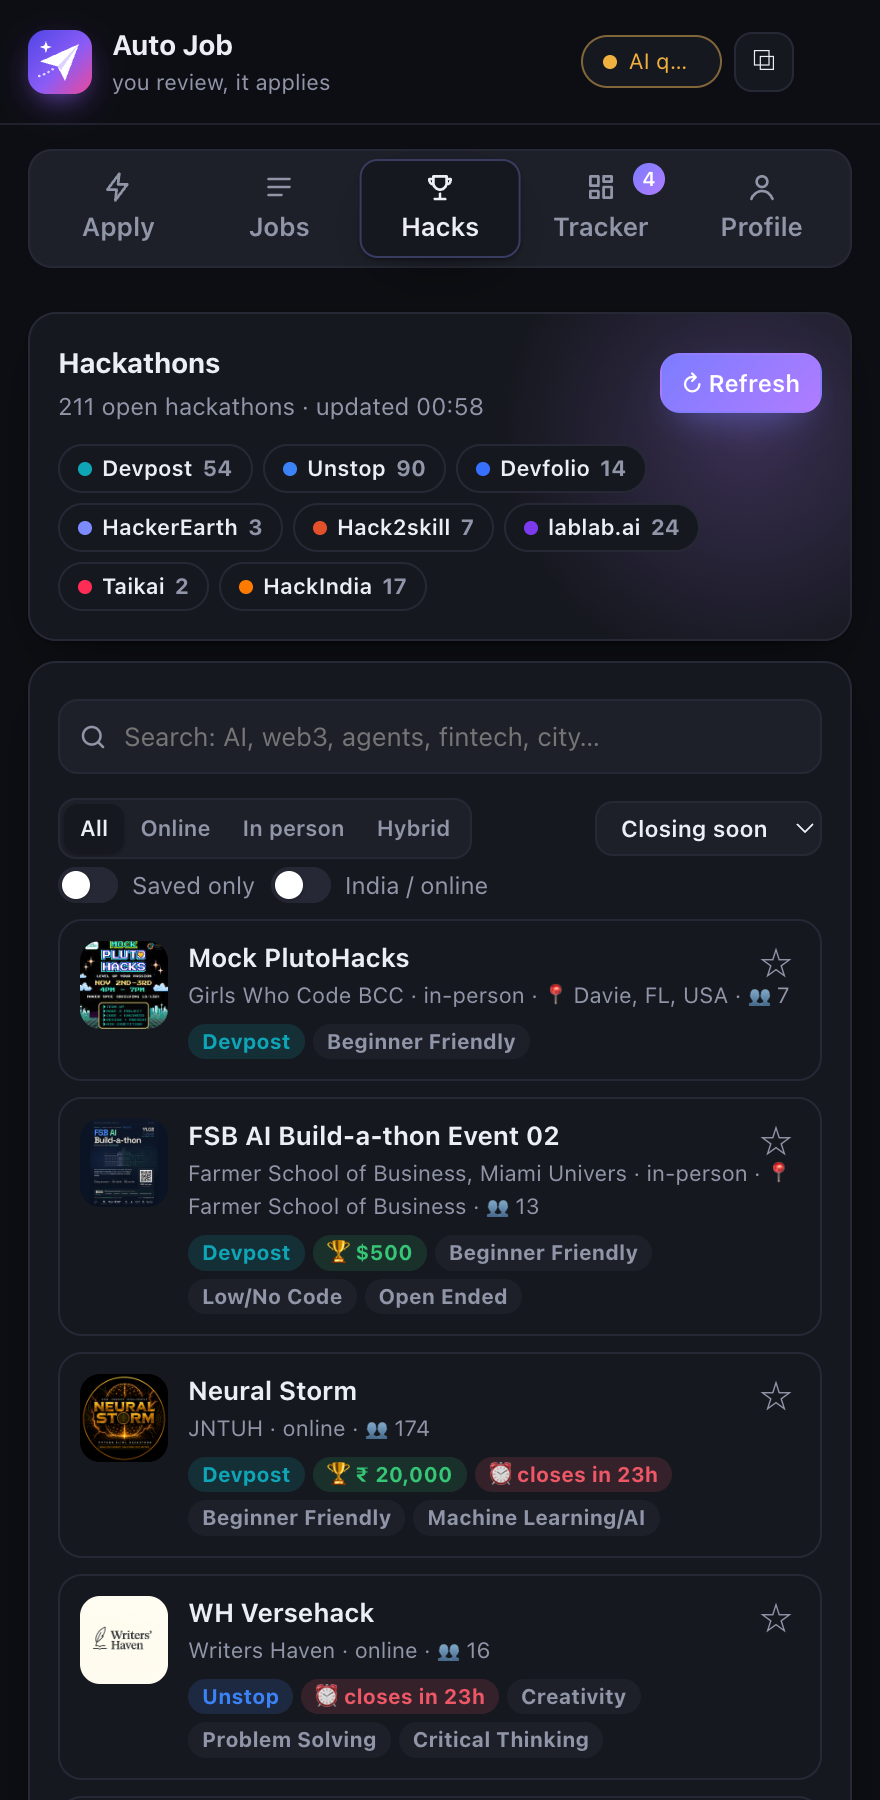
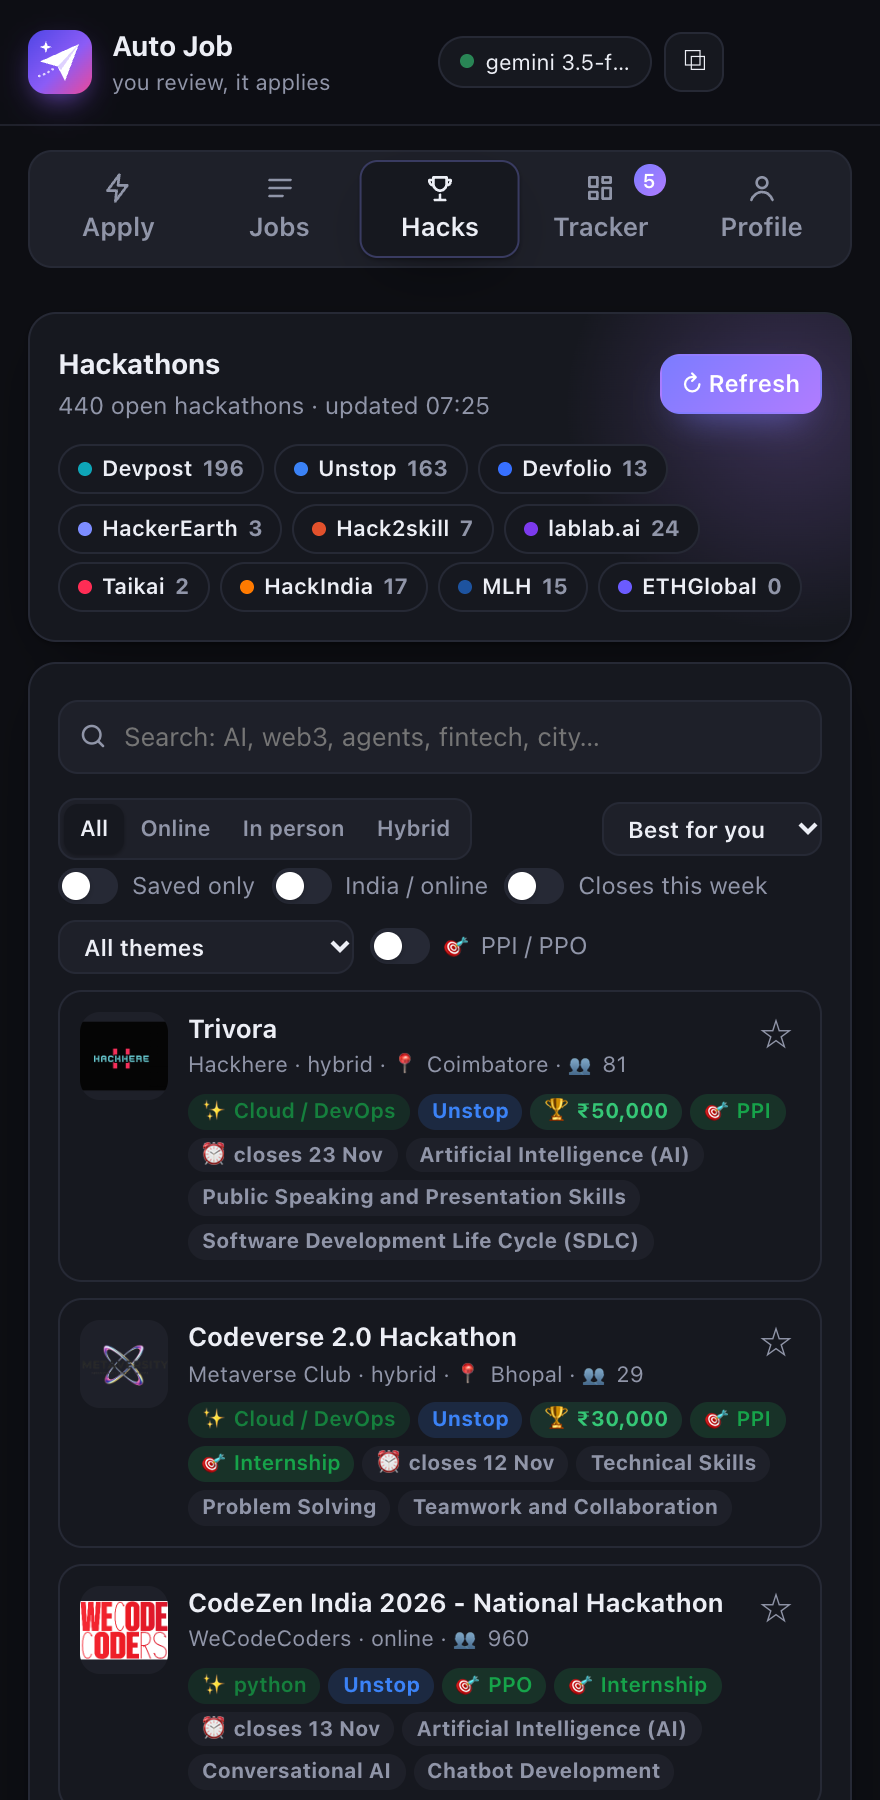
README: every feature listed, and a Tour of 18 fresh screenshots (demo profile): Apply, fill results with the page check, hard widgets, buttons / sliders / grids, Jobs, Hacks with Best for you, Tracker, Gmail tracing, email timeline and interview prep, follow-up drafts, Profile, light mode. Fixes fo

diff --git a/extension/sidepanel.js b/extension/sidepanel.js
@@ -596,7 +596,7 @@ async function fillPage(pageNo = 1) {
     const mine = { education: state.profile?.education?.length || 0, experience: state.profile?.experience?.length || 0 };
     for (const kind of ['education', 'experience']) {
       for (let n = a.entries[kind]; mine[kind] && n > mine[kind]; n--) {
-        rows.push(`<div class="item warn"><div class="q">🧹 ${kind === 'education' ? 'Education' : 'Work Experience'} ${n} isn't in your profile <span class="tag review">extra entry</span></div><div class="v">The site added it from your resume. <button class="mini" data-delentry="${fr.frameId}:${kind}:${n}">Delete it</button></div></div>`);
+        rows.push(`<div class="item warn"><div class="q">🧹 ${kind === 'education' ? 'Education' : 'Work Experience'} ${n} isn't in your profile <span class="tag review">extra entry</span></div><div class="v">The site added it from your resume. <button class="btn ghost sm" data-delentry="${fr.frameId}:${kind}:${n}">Delete it</button></div></div>`);
       }
     }
   }
@@ -1533,7 +1533,7 @@ function locationNote(p) {
 }
 // Follow-up drafts and interview prep briefs on tracker cards (drafts to read and send yourself).
 function coachHtml(kind, r) {
-  if (kind === 'followup') return `<div class="coach"><b>${esc(r.subject || 'Follow-up')}</b><pre class="coach-text">${esc(r.body || '')}</pre><button class="mini" data-copy="1">Copy</button></div>`;
+  if (kind === 'followup') return `<div class="coach"><b>${esc(r.subject || 'Follow-up')}</b><pre class="coach-text">${esc(r.body || '')}</pre><button class="btn ghost sm" data-copy="1">Copy</button></div>`;
   const list = (title, items, f) => (items || []).length ? `<p><b>${title}</b></p><ul>${items.map((x) => `<li>${f(x)}</li>`).join('')}</ul>` : '';
   return `<div class="coach coach-text"><p>${esc(r.summary || '')}</p>${list('Likely questions', r.likelyQuestions, (x) => `${esc(x.q)}<br><span class="hint">${esc(x.angle)}</span>`)}${list('Your stories', r.yourStories, (x) => `<b>${esc(x.story)}</b>: ${esc(x.use)}`)}${list('Ask them', r.askThem, esc)}${list('Day before', r.checklist, esc)}</div>`;
 }
@@ -1737,8 +1737,10 @@ const MY_THEMES = {
 function hackMatch(h) {
   const p = state.profile || {};
   if (!state.myHackProfile || state.myHackProfile.p !== p) {
-    const skills = [...new Set((p.skills || []).map((s) => String(s).toLowerCase().trim()).filter((s) => s.length >= 2 && s.length <= 30))];
-    const text = `${p.headline || ''} ${(p.skills || []).join(' ')} ${(p.experience || []).map((e) => e.title).join(' ')} ${(p.projects || []).map((x) => x.name).join(' ')}`;
+    // Skills are kept in groups ({ category, items }); one- and two-letter ones ("C", "Go") would match ordinary words.
+    const flat = (p.skills || []).flatMap((s) => (typeof s === 'string' ? [s] : s?.items || []));
+    const skills = [...new Set(flat.map((s) => String(s).toLowerCase().trim()).filter((s) => s.length >= 3 && s.length <= 30))];
+    const text = `${p.headline || ''} ${flat.join(' ')} ${(p.experience || []).map((e) => e.title).join(' ')} ${(p.projects || []).map((x) => x.name).join(' ')}`;
     state.myHackProfile = { p, skills, themes: Object.keys(MY_THEMES).filter((t) => MY_THEMES[t].test(text)) };
   }
   const me = state.myHackProfile;

diff --git a/extension/content.js b/extension/content.js
@@ -264,9 +264,12 @@
     el.blur();
   }
   // Replace the box's text through the browser's own editing (what a paste does): fires trusted input events.
+  const NO_TYPING = new Set(['date', 'month', 'week', 'time', 'datetime-local', 'number', 'range', 'color', 'file', 'checkbox', 'radio']);
   function insertText(el, text) {
     try {
+      if (el.tagName === 'INPUT' && NO_TYPING.has(el.type)) return false; // set directly, never typed
       el.focus();
+      if ((rootOf(el).activeElement || document.activeElement) !== el) return false; // it didn't take focus: typing would land elsewhere
       if (typeof el.select === 'function') el.select();
       const ok = document.execCommand('insertText', false, text);
       return ok && el.value === text;
@@ -1090,6 +1093,7 @@
       const opts = members.map(optionLabel);
       const wanted = Array.isArray(value) ? value : [value];
       let hit = false;
+      let chosen = null;
       for (const w of wanted) {
         const i = bestMatch(opts, String(w));
         if (i < 0) continue;
@@ -1098,6 +1102,7 @@
           if (!isChecked(members[i])) clickLikeUser(members[i]);
           await sleep(150);
           hit = true;
+          chosen ||= members[i];
           continue;
         }
         if (!isChecked(members[i])) members[i].click();
@@ -1108,8 +1113,9 @@
         if (!isChecked(members[i]) && (members[i].type === 'radio' || members[i].getAttribute('role') === 'radio'))
           return `didn't stick: "${opts[i]}" isn't selected`;
         hit = true;
+        chosen ||= members[i];
       }
-      if (hit) mark(members[0], review);
+      if (hit) mark(chosen || members[0], review);
       return hit ? 'filled' : `no option matches "${wanted.join(', ')}"`;
     }
 

diff --git a/extension/sidepanel.html b/extension/sidepanel.html
@@ -168,7 +168,7 @@
         <div class="search">
           <svg viewBox="0 0 24 24"><circle cx="11" cy="11" r="7"/><path d="M20 20l-3.5-3.5"/></svg>
           <input id="jobFilter" placeholder="Filter: engineer, ml, data, sde" />
-          <select id="jobSort" title="Order of the list"><option value="match">Best match first</option><option value="found">As found</option></select>
+          <select id="jobSort" class="select" title="Order of the list"><option value="match">Best match first</option><option value="found">As found</option></select>
         </div>
         <label class="switch" style="margin:8px 0 2px"><input type="checkbox" id="includePremium" /><span class="track"></span>Include premium jobs (I'm logged in with premium)</label>
         <div class="row between">

diff --git a/server/test/scan-widgets.html b/server/test/scan-widgets.html
@@ -173,6 +173,7 @@
       github: $('#gh').value, portfolio: $('#pf')?.value, team: $('#depVal').value,
     };
     const expect = { country: 'India', degree: "Bachelor's Degree", langs: 'Python,Go', start: '2027-01-04', reloc: 'true', notice: '30', heard: 'LinkedIn', github: 'https://github.com/riya-sample', portfolio: 'https://riya-sample.dev', team: 'Machine Learning Platform' };
+    if ($('#cty').value) fail.push(`text leaked into the Country search box: "${$('#cty').value}"`);
     for (const k of Object.keys(expect)) if (got[k] !== expect[k]) fail.push(`${k}: got ${JSON.stringify(got[k])}, wanted ${expect[k]}`);
     return { fields: fields.length, fail, got: { ...got, expanded: rev?.expanded, results: res } };
   };

diff --git a/README.md b/README.md
@@ -71,7 +71,8 @@ Auto Job does the repetitive part and leaves the decisions to you:
 | Fight Workday dropdowns and date boxes | Opens lists, searches, walks nested categories, types split MM / YYYY boxes |
 | Click Next, fix errors, click Next again | Moves page to page, reads the site's error messages and corrects them |
 | Hunt for the OTP in Gmail | Reads the code (or verification link) from your inbox and enters it |
-| Track 30 applications in a spreadsheet | Keeps a tracker with statuses from *Applied* to *Offer* |
+| Track 30 applications in a spreadsheet | Reads your Gmail and keeps the tracker up to date: every application, every reply, every rejection |
+| Dig through hackathon sites | Lists 400+ open hackathons from 10 platforms, ranked for you |
 
 **What it will not do:** press the final Submit for you, invent experience, or solve CAPTCHAs. You stay in control of everything that matters.
 
@@ -95,15 +96,25 @@ Auto Job does the repetitive part and leaves the decisions to you:
   - rich text
   - repeating sections (Work Experience 1, 2, 3…)
   - fields inside iframes and shadow DOM
+  - sliders, rating grids and plain answer buttons that only change colour
+  - long "virtual" dropdowns that only draw the options in view (scrolled to the right one)
+  - the hint under a field ("DD/MM/YYYY", "in LPA", "max 200 words", "include country code"), followed exactly
+- **📜 Sees the whole form.** It scrolls through the page (and boxes inside it) so sections that load on scroll appear, and opens collapsed sections like "Show additional questions" before it starts.
+- **🧠 Uses your profile as the truth.** When a portal pre-fills your work history from its own resume reading (swapped dates, "Remote" as a description, a company of just "AI"), each entry is matched to your real role by title, company and start date, and rewritten.
 - **📎 Uploads documents.** Resume, cover letter, and also photo, signature, marksheets, ID / address proof and PAN when a form asks for them.
 - **🔁 Works through every page.** It clicks *Next*, waits for questions that only appear after an answer, fixes validation errors and retries.
+- **🔎 Checks before you continue.** After filling, it reads the page back and lists dates that end before they start, leftover import text and required boxes still empty. Entries your profile doesn't have get a *Delete it* button you press.
+- **🙅 Never claims what it didn't do.** An answer that isn't in a dropdown's list is reported as "pick it yourself", never as filled, and text only goes into the box that has focus.
 - **👁 Has eyes.** After filling a page it takes screenshots and has Gemini look at them like a person would: red errors, empty required boxes, a value in the wrong field. Then it goes to that field and fixes it.
 - **⌨ Types for real.** Boxes a site still rejects are retyped with genuine keystrokes through Chrome's own debugger, which sites can't tell apart from your keyboard.
 - **🔐 Reads OTPs from your Gmail and clicks verify links, automatically.** When a portal says "enter the code we emailed you", Auto Job finds that email, types the code (including 6 separate boxes) and carries on. When it says "check your inbox", it opens the verification link and fills the next page. Inbox access is read-only.
 - **📨 Applies by email.** When a post just says "send your CV to hr@…", it drafts the email with the files attached and sends it from your Gmail after you confirm.
-- **🗂 Scans job boards.** It scans your favourite boards, merges every posting into one list, and applies to the ones you tick, one after another.
-- **🏆 Lists hackathons** from 8 platforms in one searchable list.
-- **📊 Tracks your applications** from *To apply* to *Offer*.
+- **🗂 Scans job boards.** It scans your favourite boards, merges every posting into one list ranked by how well each fits you, and applies to the ones you tick, one after another. It skips jobs you already applied to, stops at 25 a day and paces itself.
+- **🏆 Finds hackathons** from 10 platforms (Devpost, Unstop, Devfolio, HackerEarth, Hack2skill, lablab.ai, Taikai, HackIndia, MLH, ETHGlobal), ranked *Best for you* by your skills and themes, with PPI / PPO and internship rewards flagged.
+- **📬 Reads your whole inbox for your job search.** Every email in the last 90 days is sorted; confirmations, tests, interviews, rejections and offers update the tracker on their own, applications you never tracked are added, and each card keeps its emails as a timeline. It checks again every 3 hours.
+- **📊 Tracks your applications** from *To apply* to *Offer*, with insights: how many heard back, how many reached interview, where rejections happen.
+- **✉ Drafts follow-ups and 🎯 prepares you for interviews.** A short follow-up email for applications that went quiet (you send it), and a one-page brief when an interview is coming: likely questions, your stories, questions to ask.
+- **🐞 Reports a form that went wrong.** One button saves a privacy-scrubbed copy of the form, which becomes a test so the fix stays fixed.
 - **🩺 Heals itself.** Every field that fails or that the site rejects goes up one ladder: normal fill → real typing → real click → a corrected value from the AI. It checks after every step, remembers per site what worked, and hands you a "Needs you" list with a **Show me** button for anything it couldn't fix.
 - **🛑 Waits for you at the end.** You review the highlighted fields and press Submit twice.
 - **🏠 Runs entirely on your laptop.** The server is a small program on your own machine. Your profile, documents and passwords never go to any Auto Job server, because there isn't one.
@@ -179,26 +190,40 @@ sequenceDiagram
 
 ## Tour
 
+Every screenshot is the real panel and the real form-filling engine, with the made-up demo profile "Riya Sharma" and made-up companies.
+
 <table>
 <tr>
-<td width="50%"><img src="docs/screenshots/panel-apply.png" alt="Apply tab: four steps and the Do it all button" /><br><b>Apply</b>: one button runs Job → Resume → Fill → Review. Switches for auto-Next, cover letter, "only empty fields" and 100% keywords.</td>
-<td width="50%"><img src="docs/screenshots/fill-results.png" alt="Fill results list in the panel" /><br><b>Fill results</b>: every field, its value, and where the value came from (profile, memory or AI). Anything that needs you is listed first.</td>
+<td width="50%"><img src="docs/screenshots/panel-apply.png" alt="Apply tab: four steps, the Do it all button and its switches" /><br><b>Apply</b>: one button runs Job → Resume → Fill → Review. Switches for auto-Next, cover letter, only-empty fields, 100% keywords, the visual check, real typing and company research.</td>
+<td width="50%"><img src="docs/screenshots/fill-check.png" alt="Fill results: filled fields with their source, an AI answer to check, and the page check flagging a date and leftover import text" /><br><b>Fill results and the page check</b>: every field, its value and where it came from. After filling, the page is read back: dates in the wrong order, text left over from the site's resume import, and extra entries (with a <i>Delete it</i> button you press).</td>
+</tr>
+<tr>
+<td><img src="docs/screenshots/widgets-filled.png" alt="A form with a Greenhouse-style search dropdown, an MUI select, a virtual list, checkboxes, a date, a switch, a collapsed section and a section that loads on scroll, all filled" /><br><b>Hard widgets</b>: a Greenhouse search dropdown ("India", not "Indiana"), an MUI select, a 60-option virtual list scrolled to option 48, "select all that apply", a date, a switch, a collapsed section it opened and a section that only loads when scrolled to.</td>
+<td><img src="docs/screenshots/versatile-filled.png" alt="Yes / No buttons, experience-range buttons, a slider and a rating grid, each answer outlined in green" /><br><b>Buttons, sliders, grids</b>: plain answer buttons that only change colour, a slider moved by keyboard, and a rating grid where each row is a question and the column headers are its options.</td>
 </tr>
 <tr>
 <td><img src="docs/screenshots/tailored-resume.png" alt="Tailored one-page resume" /><br><b>Tailored resume</b>: one page, single column, real text, clickable links, the job's title and keywords up top. Every number comes from your own resume.</td>
 <td><img src="docs/screenshots/cover-letter.png" alt="Generated cover letter" /><br><b>Cover letter</b>: opens with your most relevant result, proves fit with two achievements, closes with a call to action. No "I am writing to express my interest".</td>
 </tr>
 <tr>
-<td><img src="docs/screenshots/workday-fill.png" alt="Workday-style experience page filled" /><br><b>Workday-style pages</b>: Work Experience entries from your profile in order, split MM / YYYY date boxes, "I currently work here" ticked only for your current job.</td>
-<td><img src="docs/screenshots/panel-jobs.png" alt="Jobs tab with job board presets and a merged job list" /><br><b>Jobs</b>: one-tap job boards. "Scan all my boards" merges every posting into one list; tick jobs and press <i>Start applying</i>.</td>
+<td><img src="docs/screenshots/workday-fill.png" alt="Workday-style experience page filled" /><br><b>Workday-style pages</b>: each work entry matched to your role (typos like "Microsfot" allowed) and rewritten from your profile, split MM / YYYY date boxes, "I currently work here" only for your current job.</td>
+<td><img src="docs/screenshots/panel-jobs.png" alt="Jobs tab with job board presets and a list ranked by match score" /><br><b>Jobs</b>: one-tap job boards. "Scan all my boards" merges every posting into one list ranked by match score; tick jobs and press <i>Start applying</i> (skips ones you applied to, 25 a day, paced).</td>
 </tr>
 <tr>
-<td><img src="docs/screenshots/panel-hacks.png" alt="Hackathons tab" /><br><b>Hacks</b>: open hackathons from Devpost, Unstop, Devfolio, HackerEarth, Hack2skill, lablab.ai, Taikai and HackIndia, with prize, mode and deadline.</td>
-<td><img src="docs/screenshots/panel-tracker.png" alt="Tracker tab" /><br><b>Tracker</b>: every application with its status, a timeline and notes. Counters for To apply / In process / Offers / Rejected.</td>
+<td><img src="docs/screenshots/panel-hacks.png" alt="Hacks tab: 440 open hackathons from 10 platforms, Best for you ranking with match badges" /><br><b>Hacks</b>: 400+ open hackathons from 10 platforms. <i>Best for you</i> ranks by your skills and themes and shows what matched (✨). Filters for theme, closes this week, mode, India / online and 🎯 PPI / PPO.</td>
+<td><img src="docs/screenshots/panel-tracker.png" alt="Tracker tab with counters, insights and the From your Gmail card" /><br><b>Tracker</b>: counters, a pipeline bar and insights (heard back, reached interview, where rejections happen), then what your Gmail said since the last check.</td>
 </tr>
 <tr>
-<td><img src="docs/screenshots/panel-profile.png" alt="Profile tab" /><br><b>Profile</b>: import one or several resumes (merged into one master profile), personal details, documents, standard answers, remembered answers.</td>
+<td><img src="docs/screenshots/gmail-trace.png" alt="From your Gmail: an application added from mail, a status moved to Interview with Undo, recruiter messages" /><br><b>Reads your inbox for you</b>: applications you never tracked are added from the emails about them, statuses move forward (Undo is one tap), and recruiters writing to you are listed.</td>
+<td><img src="docs/screenshots/interview-prep.png" alt="A tracker card with its email timeline and an interview prep brief: likely questions, your stories, questions to ask, day-before checklist" /><br><b>Email timeline and interview prep</b>: every email about an application in order, and a one-page brief built from the job, your profile and the company research.</td>
+</tr>
+<tr>
+<td><img src="docs/screenshots/follow-up.png" alt="A follow-up email draft on an application with no reply for 11 days" /><br><b>Follow-up drafts</b>: for applications with no reply after a week. A short, polite email with one true reason you fit. Copy it and send it yourself.</td>
+<td><img src="docs/screenshots/panel-profile.png" alt="Profile tab" /><br><b>Profile</b>: import one or several resumes (merged into one master profile), personal details, documents, standard answers, remembered answers. Flags roles with no location.</td>
+</tr>
+<tr>
 <td><img src="docs/screenshots/panel-apply-light.png" alt="Apply tab in light mode" /><br><b>Light and dark</b>: follows your system theme. Runs as a side panel in Chrome / Edge / Brave, and as a popup, tab or window in Arc.</td>
+<td><img src="docs/screenshots/company-research.png" alt="Company research card" /><br><b>Company research</b>: products, stack, recent news, interview focus, red flags, your fit and an angle, each fact with its source.</td>
 </tr>
 </table>
 
@@ -581,6 +606,10 @@ What makes it work on real portals and not only on simple forms:
 | **Hints under fields** ("Format: DD/MM/YYYY", "Amount in LPA", "Max 200 words", "Include country code") | Read with the question and followed: dates use the format shown, written answers are cut to the word limit at a sentence end. |
 | **Plain answer buttons, sliders, rating grids** | Yes / No and range buttons that only change colour are read as questions (only with a question written above them). Sliders are moved by keyboard. In a table of radios each row is a question and the column headers are its options. |
 | **Uploads the site empties** (Workday lists the file beside an empty box) | The listed file names are read, so the same resume isn't uploaded again on the next pass. |
+| **Sections that load on scroll, collapsed sections** | Scrolls through the page and through scrolling boxes inside it, then opens "Show additional questions" toggles and closed panels. Menus, dropdowns and the site's navigation are never touched. |
+| **Virtual lists** (Ant Design, react-window: only ~10 of 60 options exist at a time) | Finds the box that really scrolls, starts from the top and scrolls until the option appears. |
+| **A value that isn't in the list** | Reported as "no option matches… pick it yourself". Read-only dropdown boxes are never typed into, so a typed value can't be mistaken for a choice. |
+| **Typing landing in the wrong box** | Text is only typed into the field that has focus; date, number, slider and colour inputs are set directly. |
 | **Validation errors** | Reads each field's error and the page's error banner. Common fixes (digits only, date format, missing `https://`, length) are instant. Anything else goes back to the AI with the site's message and the rejected value. |
 | **Hidden padding** (zero-width spaces in labels) | Strips it so the question is read correctly. |
 | **Job page vs form** | Ignores the site's search box, menus and "Save job" toggles, presses *Apply now*, and never presses a form's own "Apply" submit button. |
